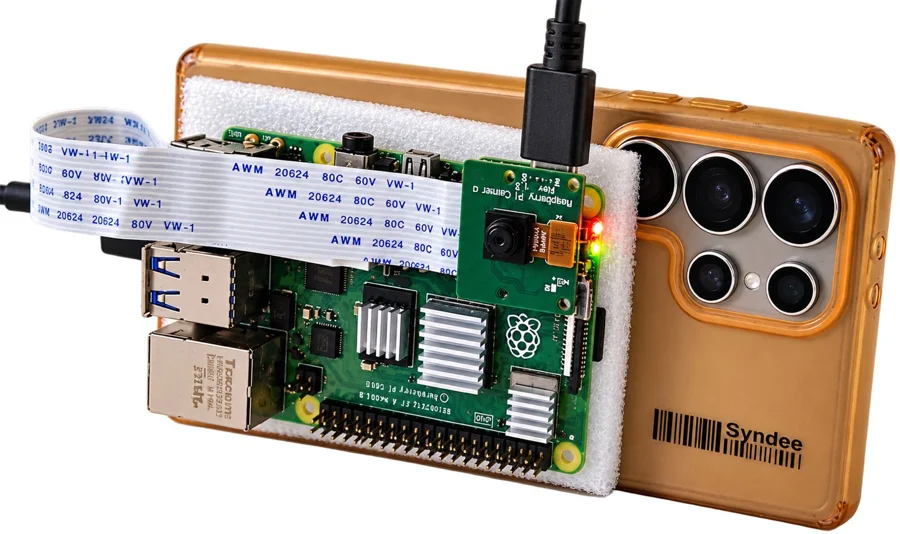
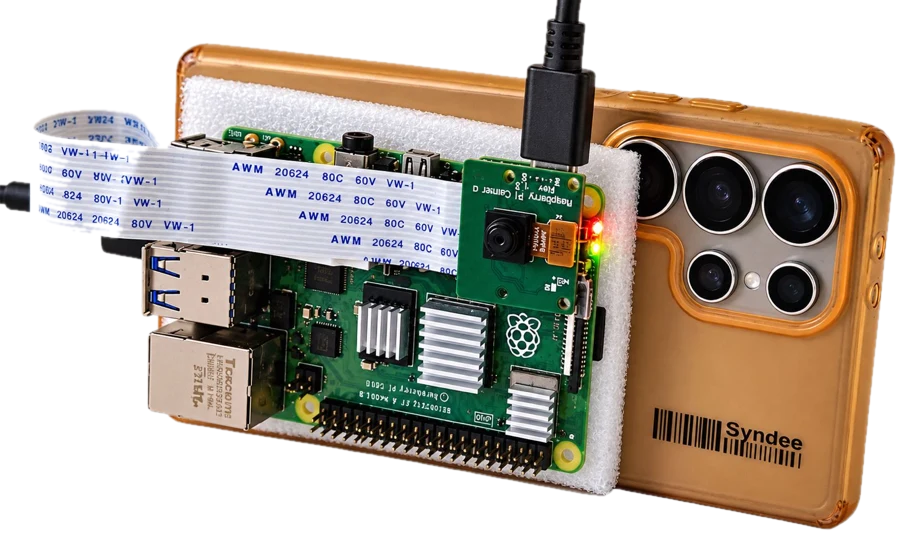
Declutter the story page
Hide decorative sprites, hex columns, glow and ghost words, drop the duplicate hero chips and chapter buttons, remove redundant stage subtitles, tighten benefit cards and cut the Clip photo out of its white background.

Claude-Session: https://claude.ai/code/session_01PKSy2fQvPqTz6p5TKPXbdy

diff --git a/owner-portal/src/components/LandingPage/story/story.html b/owner-portal/src/components/LandingPage/story/story.html
@@ -130,7 +130,6 @@
           <g class="bob2">
             <g transform="translate(130 -6)">
               <image href="{{img:clip}}" x="-100" y="-52" width="200" height="119" preserveAspectRatio="xMidYMid meet"/>
-              <rect x="-100" y="-52" width="200" height="119" fill="none" stroke="rgba(255,248,234,.22)"/>
               <text x="0" y="104" text-anchor="middle" fill="#FF6A1A" font-family="JetBrains Mono,monospace" font-size="10.5" letter-spacing="1.6">CLIP</text>
               <text x="0" y="119" text-anchor="middle" fill="#B3A999" font-family="JetBrains Mono,monospace" font-size="9" class="hero-devs">any phone</text>
             </g>
@@ -177,20 +176,7 @@
           <div class="eyebrow">The story behind Veris</div>
           <h1>Proof, made at the shutter.</h1>
           <p>Proves your photo is real.</p>
-          <div class="chips hero-devs">
-            <span class="chip"><b></b>Hotshoe for DSLR and mirrorless</span>
-            <span class="chip"><b></b>Clip for any phone</span>
-          </div>
-          <div class="chapters" role="list" aria-label="Jump to a chapter">
-            <button class="chip" type="button" data-go="p:0.35">Problem</button>
-            <button class="chip" type="button" data-go="p:0.54">Solution</button>
-            <button class="chip" type="button" data-go="p:0.76">Impact</button>
-            <button class="chip" type="button" data-go="#benefits">Benefits</button>
-            <button class="chip" type="button" data-go="#feasibility">Feasibility</button>
-            <button class="chip" type="button" data-go="#viability">Viability</button>
-            <button class="chip" type="button" data-go="#technical">Technical</button>
-          </div>
-          <div class="cue"><i></i>Scroll to follow one journalist's photo</div>
+          <div class="cue"><i></i>Scroll</div>
         </div>
 
         <!-- ACT 1: THE SHOT -->
@@ -338,20 +324,20 @@
   <div class="wrap">
     <div class="sec-head rv">
       <div class="eyebrow">Viability</div>
-      <h2 class="h2" style="max-width:20ch">Will it pay for itself? Three ways, starting small.</h2>
+      <h2 class="h2" style="max-width:20ch">Will it pay for itself?</h2>
     </div>
     <div class="streams">
       <div class="stream rv"><div class="n">₹2k–8k</div><h3>The device</h3><p>One-time sale.</p></div>
       <div class="stream rv" style="--d:.08s"><div class="n">₹0.5–3</div><h3>Every photo</h3><p>Cheap on purpose.</p></div>
-      <div class="stream rv" style="--d:.16s"><div class="n">API + SaaS</div><h3>Institutions</h3><p>Enterprise.</p></div>
+      <div class="stream rv" style="--d:.16s"><div class="n">API + SaaS</div><h3>Institutions</h3><p>Newsrooms, insurers, platforms.</p></div>
     </div>
 
     <div class="path rv" id="path">
       <div class="path-line"><i></i></div>
       <div class="path-nodes">
-        <div class="pn"><small>First</small><h3>Journalists and conflict photographers</h3><p>Highest need.</p></div>
-        <div class="pn"><small>Then</small><h3>Forensics and courts</h3><p>Section 63.</p></div>
-        <div class="pn"><small>Then</small><h3>Insurance and platforms</h3><p>Claim photos.</p></div>
+        <div class="pn"><small>First</small><h3>Journalists and conflict photographers</h3><p>Where doubt costs the most.</p></div>
+        <div class="pn"><small>Then</small><h3>Forensics and courts</h3><p>Capture-time hash for case files.</p></div>
+        <div class="pn"><small>Then</small><h3>Insurance and platforms</h3><p>Proof for every claim photo.</p></div>
       </div>
     </div>
 
@@ -388,16 +374,16 @@
 
     <div class="arch rv" id="arch">
       <div class="arch-track"><i id="archbar"></i></div>
-      <div class="stg"><div class="tag">STAGE 1</div><h3>Physical capture</h3><p>Capture</p>
+      <div class="stg"><div class="tag">STAGE 1</div><h3>Physical capture</h3>
         <div class="stp"><i>1</i><div><b>Capture</b><span>Shoot as usual.</span></div></div>
         <div class="stp"><i>2</i><div><b>Attest in hardware</b><span>TPM chip signs it.</span></div></div>
       </div>
-      <div class="stg"><div class="tag">STAGE 2</div><h3>Cryptographic proof</h3><p>Prove</p>
+      <div class="stg"><div class="tag">STAGE 2</div><h3>Cryptographic proof</h3>
         <div class="stp"><i>3</i><div><b>Prove</b><span>Zero-knowledge proof.</span></div></div>
         <div class="stp"><i>4</i><div><b>Store</b><span>IPFS + Filecoin.</span></div></div>
         <div class="stp"><i>5</i><div><b>Certify</b><span>Minted on-chain.</span></div></div>
       </div>
-      <div class="stg"><div class="tag">STAGE 3</div><h3>Public verification</h3><p>Check</p>
+      <div class="stg"><div class="tag">STAGE 3</div><h3>Public verification</h3>
         <div class="stp"><i>6</i><div><b>Verify</b><span>Drop it on the claim page: <span class="okt">VERIFIED</span> or <span class="badt">NO RECORD</span>.</span></div></div>
       </div>
     </div>

diff --git a/owner-portal/src/components/LandingPage/story/story.css b/owner-portal/src/components/LandingPage/story/story.css
@@ -44,6 +44,7 @@
   .stage { position: sticky; top: 0; height: 100vh; height: 100svh; overflow: hidden; background: var(--bg); --p: 0; }
   .grid { position: absolute; inset: -10% 0; background-image: linear-gradient(var(--line) 1px, transparent 1px), linear-gradient(90deg, var(--line) 1px, transparent 1px); background-size: 64px 64px; opacity: .45; transform: translateY(calc(var(--p) * -320px)); -webkit-mask-image: radial-gradient(70% 60% at 65% 45%, #000, transparent); mask-image: radial-gradient(70% 60% at 65% 45%, #000, transparent); }
   .glow { position: absolute; width: 70vmax; height: 70vmax; left: 35%; top: -10%; background: radial-gradient(closest-side, rgba(255, 106, 26, .22), transparent); transform: translate(calc(var(--p) * -45vw), calc(var(--p) * 32vh)); pointer-events: none; }
+  .hexcol, .sf, .glow, .ghost-word, #feed .pxi { display: none !important; }
   .hexcol { position: absolute; top: 0; font: 400 11px/1.9 var(--f-mono); color: rgba(255, 248, 234, .07); white-space: pre; pointer-events: none; user-select: none; }
   .sf { position: absolute; z-index: 1; pointer-events: none; opacity: .9; }
   .copy { position: absolute; inset: 0; width: 100%; pointer-events: none; }
@@ -79,7 +80,7 @@
   #benefits { height: 340vh; position: relative; }
   .hstick { position: sticky; top: 0; height: 100vh; height: 100svh; overflow: hidden; display: flex; flex-direction: column; justify-content: center; gap: clamp(24px, 4vh, 48px); padding-top: 76px; background: var(--bg); }
   .hrow { display: flex; gap: 20px; padding-inline: var(--gut); will-change: transform; width: max-content; }
-  .hcard { width: min(440px, 82vw); min-height: clamp(330px, 50vh, 430px); border: 2px solid var(--line); background: var(--bg-2); padding: clamp(22px, 2.4vw, 32px); display: flex; flex-direction: column; gap: 14px; flex: none; }
+  .hcard { width: min(440px, 82vw); min-height: clamp(280px, 44vh, 360px); border: 2px solid var(--line); background: var(--bg-2); padding: clamp(22px, 2.4vw, 32px); display: flex; flex-direction: column; gap: 14px; flex: none; }
   .hcard .who { font: 500 11px/1 var(--f-mono); letter-spacing: .16em; text-transform: uppercase; color: var(--accent); }
   .hcard .big { font: 700 clamp(26px, 3vw, 40px)/1.05 var(--f-display); letter-spacing: -.01em; }
   .hcard .big small { font: 500 12px/1.4 var(--f-mono); letter-spacing: 0; color: var(--mute); display: block; margin-top: 8px; }
@@ -170,7 +171,7 @@
   .stp b { display: block; font-weight: 600; }
   .stp span { color: var(--mute); font-size: 13px; display: block; }
   .okt { display: inline !important; color: var(--accent) !important; font-weight: 600; }
-  .badt { display: inline !important; color: var(--paper) !important; text-decoration: line-through; text-decoration-color: var(--accent); }
+  .badt { display: inline !important; color: var(--paper) !important; font-weight: 600; }
   .arch-track { position: absolute; left: 0; right: 0; top: 0; height: 4px; background: var(--line); }
   .arch-track i { position: absolute; inset: 0; background: var(--accent); transform-origin: 0 50%; transform: scaleX(0); }
   .tech2 { display: grid; grid-template-columns: 1fr 1fr; gap: clamp(20px, 3vw, 40px); margin-top: clamp(28px, 4vw, 48px); }
